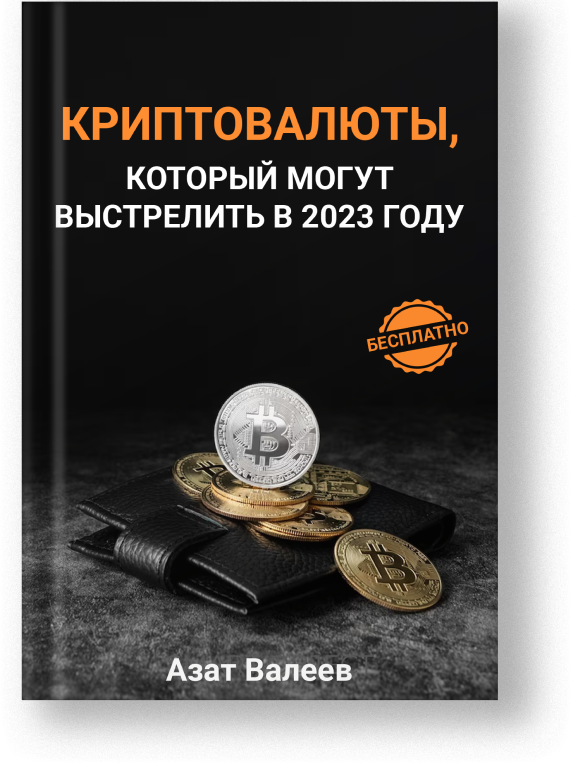
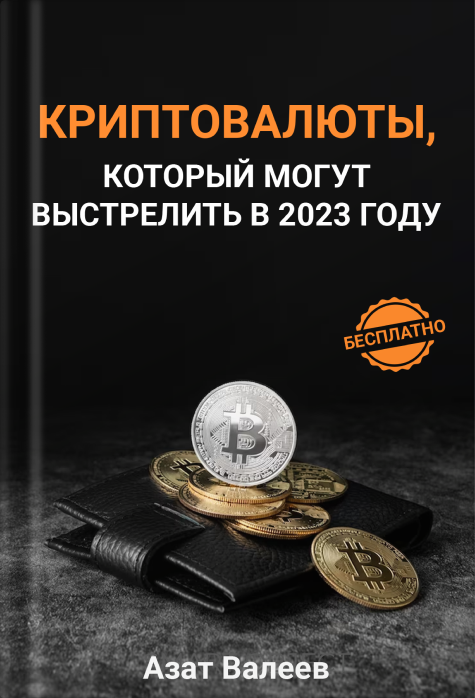
main page adaptive

diff --git a/src/scss/sections/home/hero.scss b/src/scss/sections/home/hero.scss
@@ -1,6 +1,14 @@
 .hero {
-	padding: 61px 0;
+	padding: 39px 0;
 	position: relative;
+
+	@media all and (min-width: $sm) {
+		padding: 63px 0;
+	}
+
+	@media all and (min-width: $lg) {
+		padding: 61px 0;
+	}
 
 	&__bg {
 		position: absolute;
@@ -14,7 +22,14 @@
 
 	&__wrapper {
 		display: flex;
+		flex-direction: column;
+		align-items: center;
+		position: relative;
 
+		@media all and (min-width: $xl) {
+			flex-direction: row;
+			align-items: flex-start;
+		}
 	}
 
 	&__info {
@@ -22,41 +37,84 @@
 		flex-direction: column;
 		width: 100%;
 		max-width: 673px;
+		margin-bottom: 21px;
+		
+
+		@media all and (min-width: $sm) {
+			margin-bottom: 26px;
+		}
+
+		@media all and (min-width: $xl) {
+			margin-bottom: 0;
+		}
 
 		.h1 {
-			margin-bottom: 16px;
+			margin-bottom: 10px;
 			max-width: 673px;
+
+			@media all and (min-width: $sm) {
+				margin-bottom: 20px;
+			}
 		}
 	}
 
 	&__heading {
-		margin-bottom: 37px;
+		margin-bottom: 21px;
 
 		&_text {
 			color: $black;
 			font-family: $ff;
-			font-size: 18px;
+			font-size: 14px;
 			font-style: normal;
 			font-weight: $fw-regular;
 			line-height: normal;
 			width: 100%;
 			max-width: 619px;
+			text-align: center;
+
+			@media all and (min-width: $sm) {
+				font-size: 18px;
+				margin-bottom: 26px;
+			}
+
+			@media all and (min-width: $xl) {
+				text-align: left;
+				margin-bottom: 37px;
+			}
 		}
 	}
 
 	&__img_wrapper {
 		display: flex;
 		justify-content: center;
+		
+
+		@media all and (min-width: $xl) {
+			position: absolute;
+			right: 0;
+			top: 54%;
+			transform: translateY(-50%);
+		}
 	}
 
 	&__img {
-		width: 597px;
-		height: 808px;
+		width: 243px;
+		height: 329px;
+
+		@media all and (min-width: $sm) {
+			width: 434px;
+			height: 588px;
+		}
+
+		@media all and (min-width: $xxl) {
+			width: 597px;
+			height: 808px;
+		}
 
 		img {
 			width: 100%;
 			height: 100%;
-			object-fit: cover;
+			object-fit: contain;
 		}
 	}
 }
@@ -65,14 +123,25 @@
 	width: 100%;
 	max-width: 590px;
 	background-color: $white;
-	padding: 40px 58px;
-	box-shadow: 0px 4px 15px 0px rgba(0, 0, 0, 0.05); 
+	padding: 20px;
+	box-shadow: 0px 4px 15px 0px rgba(0, 0, 0, 0.05);
+	margin: 0 auto;
+
+	@media all and (min-width: $sm) {
+		padding: 40px 28px;
+	}
+
+	@media all and (min-width: $xl) {
+		padding: 40px 58px;
+		margin: 0;
+	}
 
 	fieldset {
 		display: flex;
 		flex-direction: column;
 
 		input {
+			width: 100%;
 			color: $grey;
 			font-family: $ff;
 			font-size: 18px;
@@ -103,14 +172,21 @@
 		}
 
 		label {
+			width: 100%;
+			height: 100%;
 			color: #464646;
 			font-family: $ff;
-			font-size: 16px;
+			font-size: 14px;
 			font-style: normal;
 			font-weight: $fw-regular;
 			line-height: normal;
 			position: relative;
 			cursor: pointer;
+			padding-left: 25px;
+
+			@media all and (min-width: $sm) {
+				font-size: 16px;
+			}
 		}
 	}
 }

diff --git a/src/scss/footer/footer.scss b/src/scss/footer/footer.scss
@@ -4,7 +4,15 @@
 
 	&__wrapper {
 		display: flex;
-		justify-content: space-between;
+		flex-wrap: wrap;
+		flex-direction: column;
+		align-items: center;
+
+		@media all and (min-width: $sm) {
+			flex-direction: row;
+			justify-content: space-between;
+			align-items: flex-start;
+		}
 	}
 
 	&__requisites, .privacy__link, .footer__email {
@@ -16,14 +24,57 @@
 		line-height: 140%;
 	}
 
+	&__requisites {
+		margin-bottom: 20px;
+		order: 1;
+		text-align: center;
+
+		@media all and (min-width: $sm) {
+			margin-bottom: 34px;
+			text-align: left;
+		}
+
+		@media all and (min-width: $lg) {
+			margin-bottom: 0;
+		}
+	}
+
 	&__privacy {
 		display: flex;
 		flex-direction: column;
+		order: 3;
+
+		@media all and (min-width: $sm) {
+			width: 100%;
+		}
+
+		@media all and (min-width: $lg) {
+			order: 1;
+			width: auto;
+		}
+	}
+
+	&__email {
+		margin-bottom: 15px;
+
+		@media all and (min-width: $sm) {
+			margin-bottom: 0;
+		}
 	}
 
 	&__contacts {
 		display: flex;
 		flex-direction: column;
+		align-items: center;
+		order: 2;
+
+		@media all and (min-width: $sm) {
+			align-items: flex-start;
+		}
+
+		@media all and (min-width: $lg) {
+			order: 3;
+		}
 	}
 
 	.footer__socials {

diff --git a/src/scss/common/base.scss b/src/scss/common/base.scss
@@ -83,6 +83,9 @@ fieldset {
 	margin-right: 5px;
 	width: 14px;
 	height: 14px;
+	position: absolute;
+	left: 0;
+	top: 0;
 	background-color: $white;
 	border-radius: 3px;
 	border: 1px solid #9FA2AE; 
@@ -93,7 +96,7 @@ fieldset {
 	content: "";
 	position: absolute;
 	left: 3px;
-	top: 5px;
+	top: 3px;
 	width: 10px;
 	height: 10px;
 	border-radius: 2px;
@@ -107,7 +110,7 @@ fieldset {
 	align-items: center;
 	color: $white;
 	font-family: $ff;
-	font-size: 22px;
+	font-size: 18px;
 	font-style: normal;
 	font-weight: $fw-bold;
 	line-height: normal;
@@ -122,5 +125,9 @@ fieldset {
 
 	&:hover {
 		background-color: #EA6A03; 
+	}
+
+	@media all and (min-width: $sm) {
+		font-size: 22px;
 	}
 }

diff --git a/src/html/template-parts/sections/home/hero.html b/src/html/template-parts/sections/home/hero.html
@@ -12,6 +12,11 @@
 						криптопортфель и приумножить свой капитал в 2023 году
 					</p>
 				</div>
+				<div class="hero__img_wrapper">
+					<div class="hero__img">
+						<img src="img/hero/mock.png" width="597" height="808" alt="">
+					</div>
+				</div>
 				<form class="form">
 					<fieldset>
 						<input type="text" name="name" placeholder="Введите ваше имя">
@@ -26,11 +31,6 @@
 						СКАЧАТЬ БОНУС
 					</button>
 				</form>
-			</div>
-			<div class="hero__img_wrapper">
-				<div class="hero__img">
-					<img src="img/hero/mock.png" width="597" height="808" alt="">
-				</div>
 			</div>
 		</div>
 	</div>

diff --git a/src/scss/common/typography.scss b/src/scss/common/typography.scss
@@ -24,7 +24,7 @@ h1, .h1 {
 		font-size: 40px;
 	}
 
-	@media all and (min-width: $lg) {
+	@media all and (min-width: $xl) {
 		font-size: 50px;
 		text-align: left;
 	}
